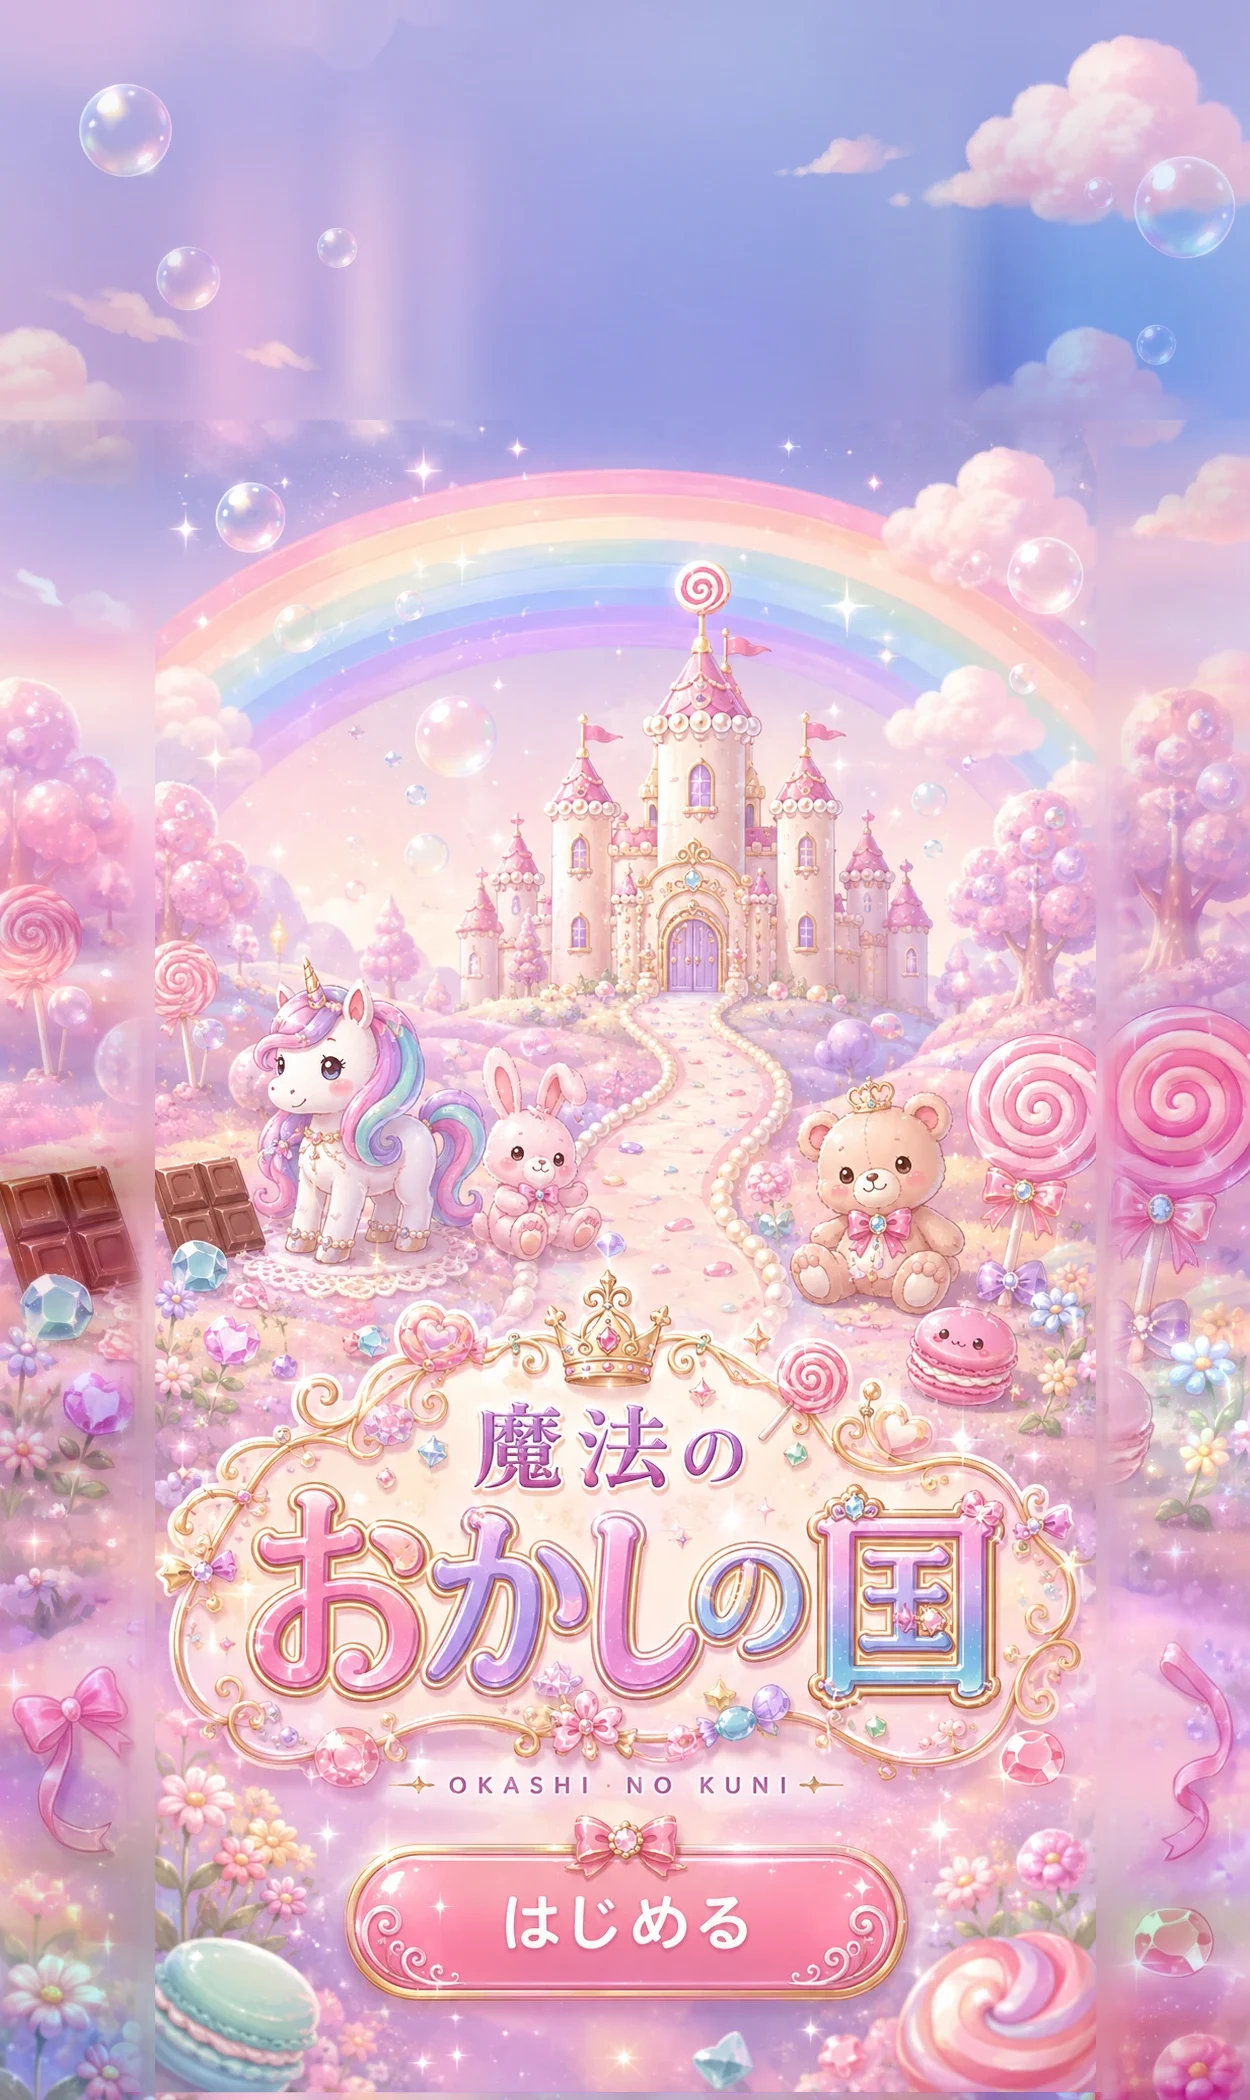
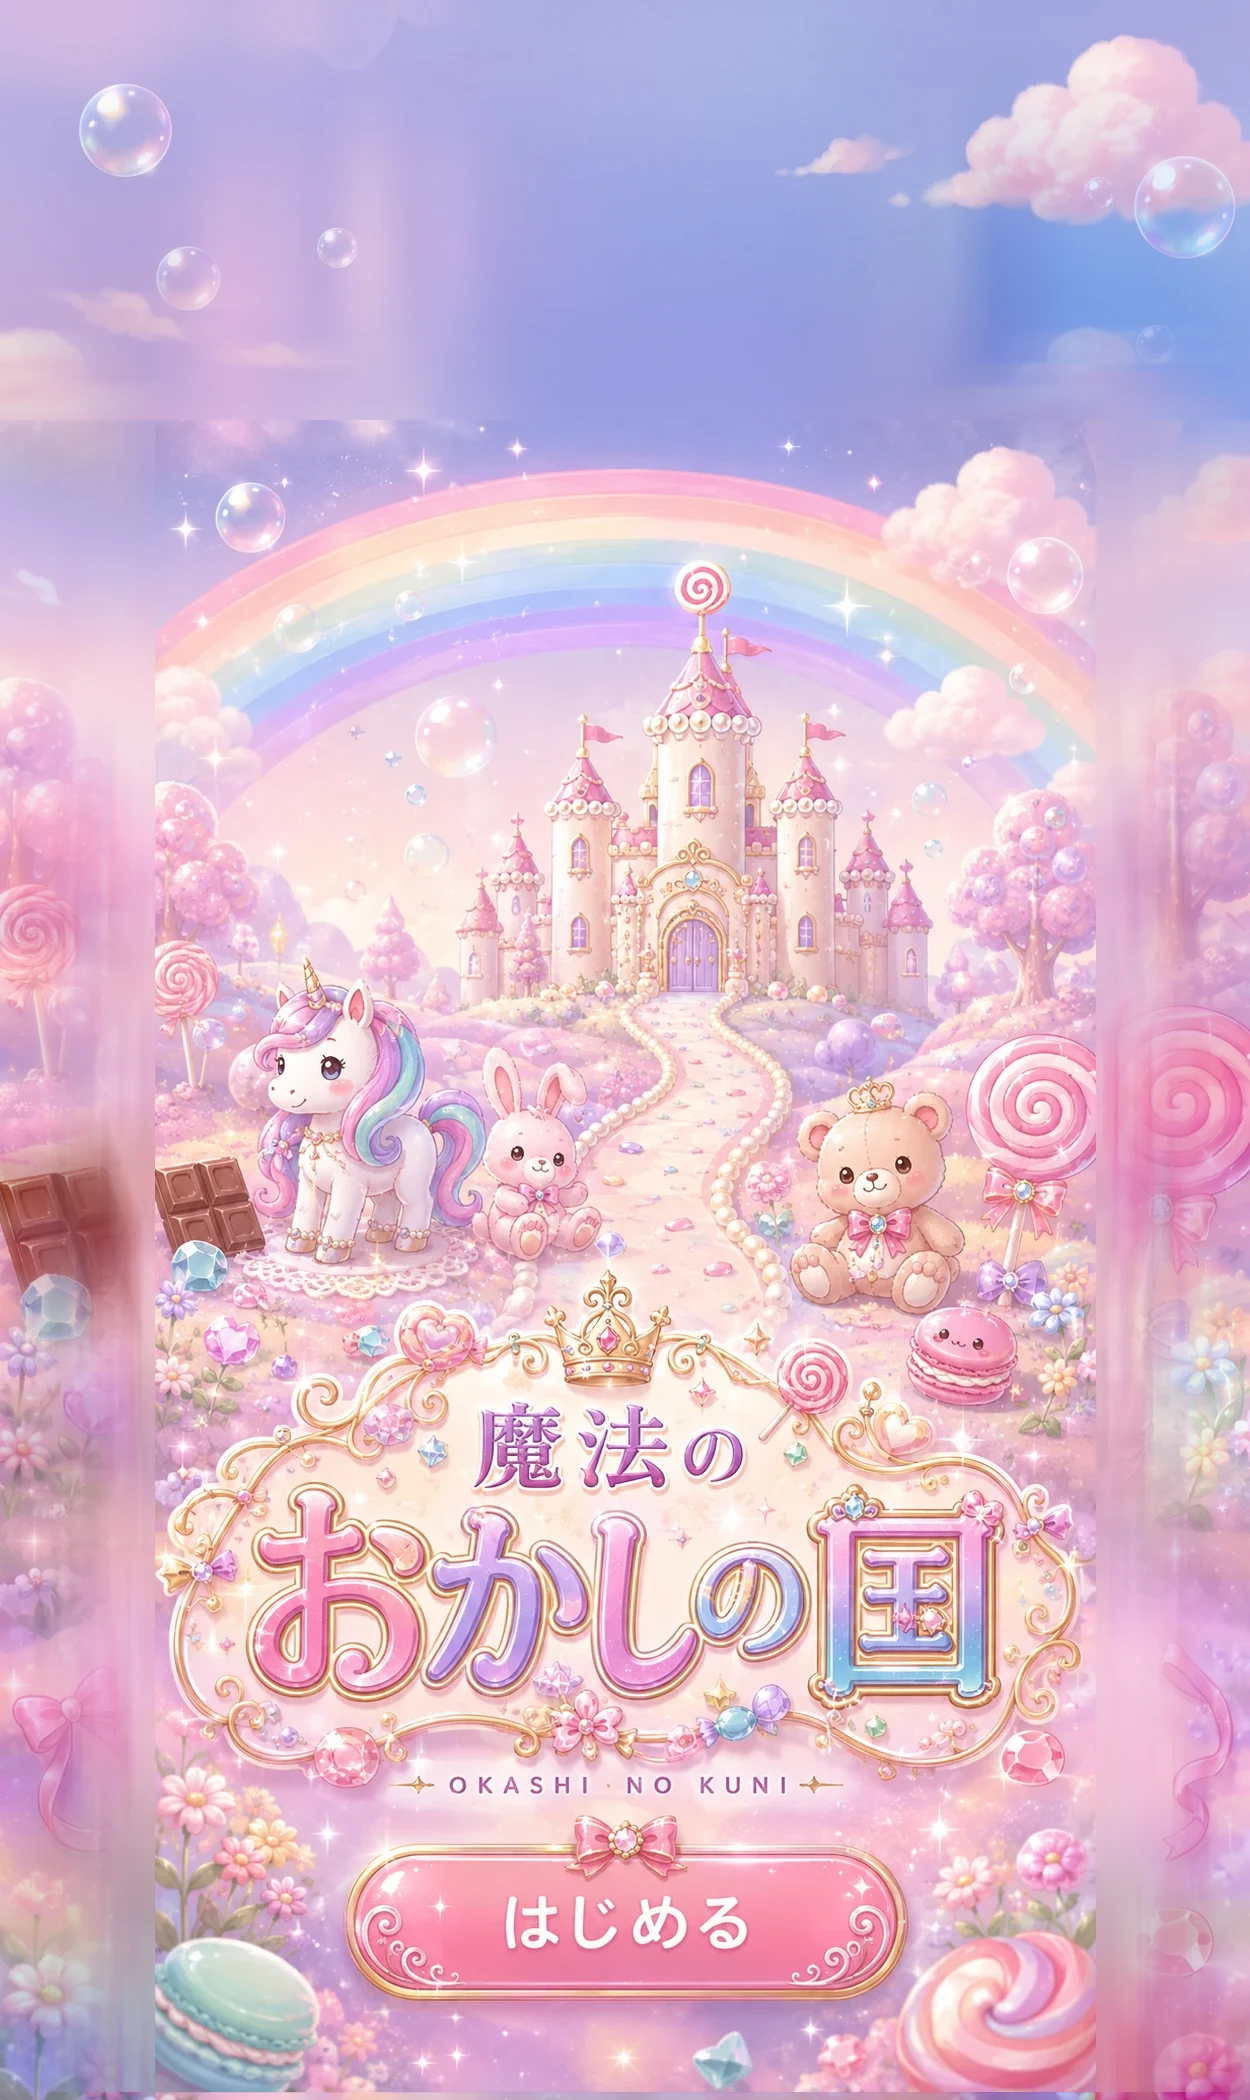
溶かす 長さを 56 → 200px に する（大きい 雲が 切れていた）
実機の 報告「そこから すべて 下が 切れてる」。3分割して 3倍で 見たら、
境めの すぐ上の **大きな 青い 雲**が ばっさり 切れていた。
56px では 小さい きらめきしか 消えず、雲の 大きさに 足りていなかった。

**溶かす 長さは いちばん 大きい モノに 合わせる。**200px、ならしの
半径 60px に した。地平ちかくの かすみのように 見える。

WebP は 305KB（ならすほど よく 縮む。360 → 327 → 305）。
いまの title_full.webp 315KB より 小さい。

検査: check-title（5幅とも 60.0fps）・check-chars すべて OK
      マスターPNG は different pixels = 0 のまま

Claude-Session: https://claude.ai/code/session_017T33GUsfgm7C8rszTwdTxa

diff --git a/CLAUDE.md b/CLAUDE.md
@@ -254,9 +254,12 @@ canvas に 1回だけ描いて、あとは貼るだけにします（`bakeGround
   そこへ 原本を 戻すと **すじが 途中で 切れ、玉が 半分に なる**。
   これは 形の 問題なので、行の 平均で 見ている かぎり **絶対に 見つからない**
   （実際、色の 段差は 0 なのに 実機では 見えていた）。
-  `title-edge-match.mjs` は 境めから 56px の あいだ、その 行を 横に
+  `title-edge-match.mjs` は 境めから **200px** の あいだ、その 行を 横に
   ならした ものへ だんだん 寄せる。すじも 玉の ふちも ならされて 消え、
-  **切れ目では なく 溶けて 終わる**
+  **切れ目では なく 溶けて 終わる**。
+  **溶かす 長さは いちばん 大きい モノに 合わせる こと。**56px では
+  小さい きらめきしか 消えず、境めの すぐ上の 大きな 雲は ばっさり 切れた
+  （実機の 報告）。200px なら 地平ちかくの かすみのように 見える
 
 はかる ときの おとし穴が 2つ。
 
